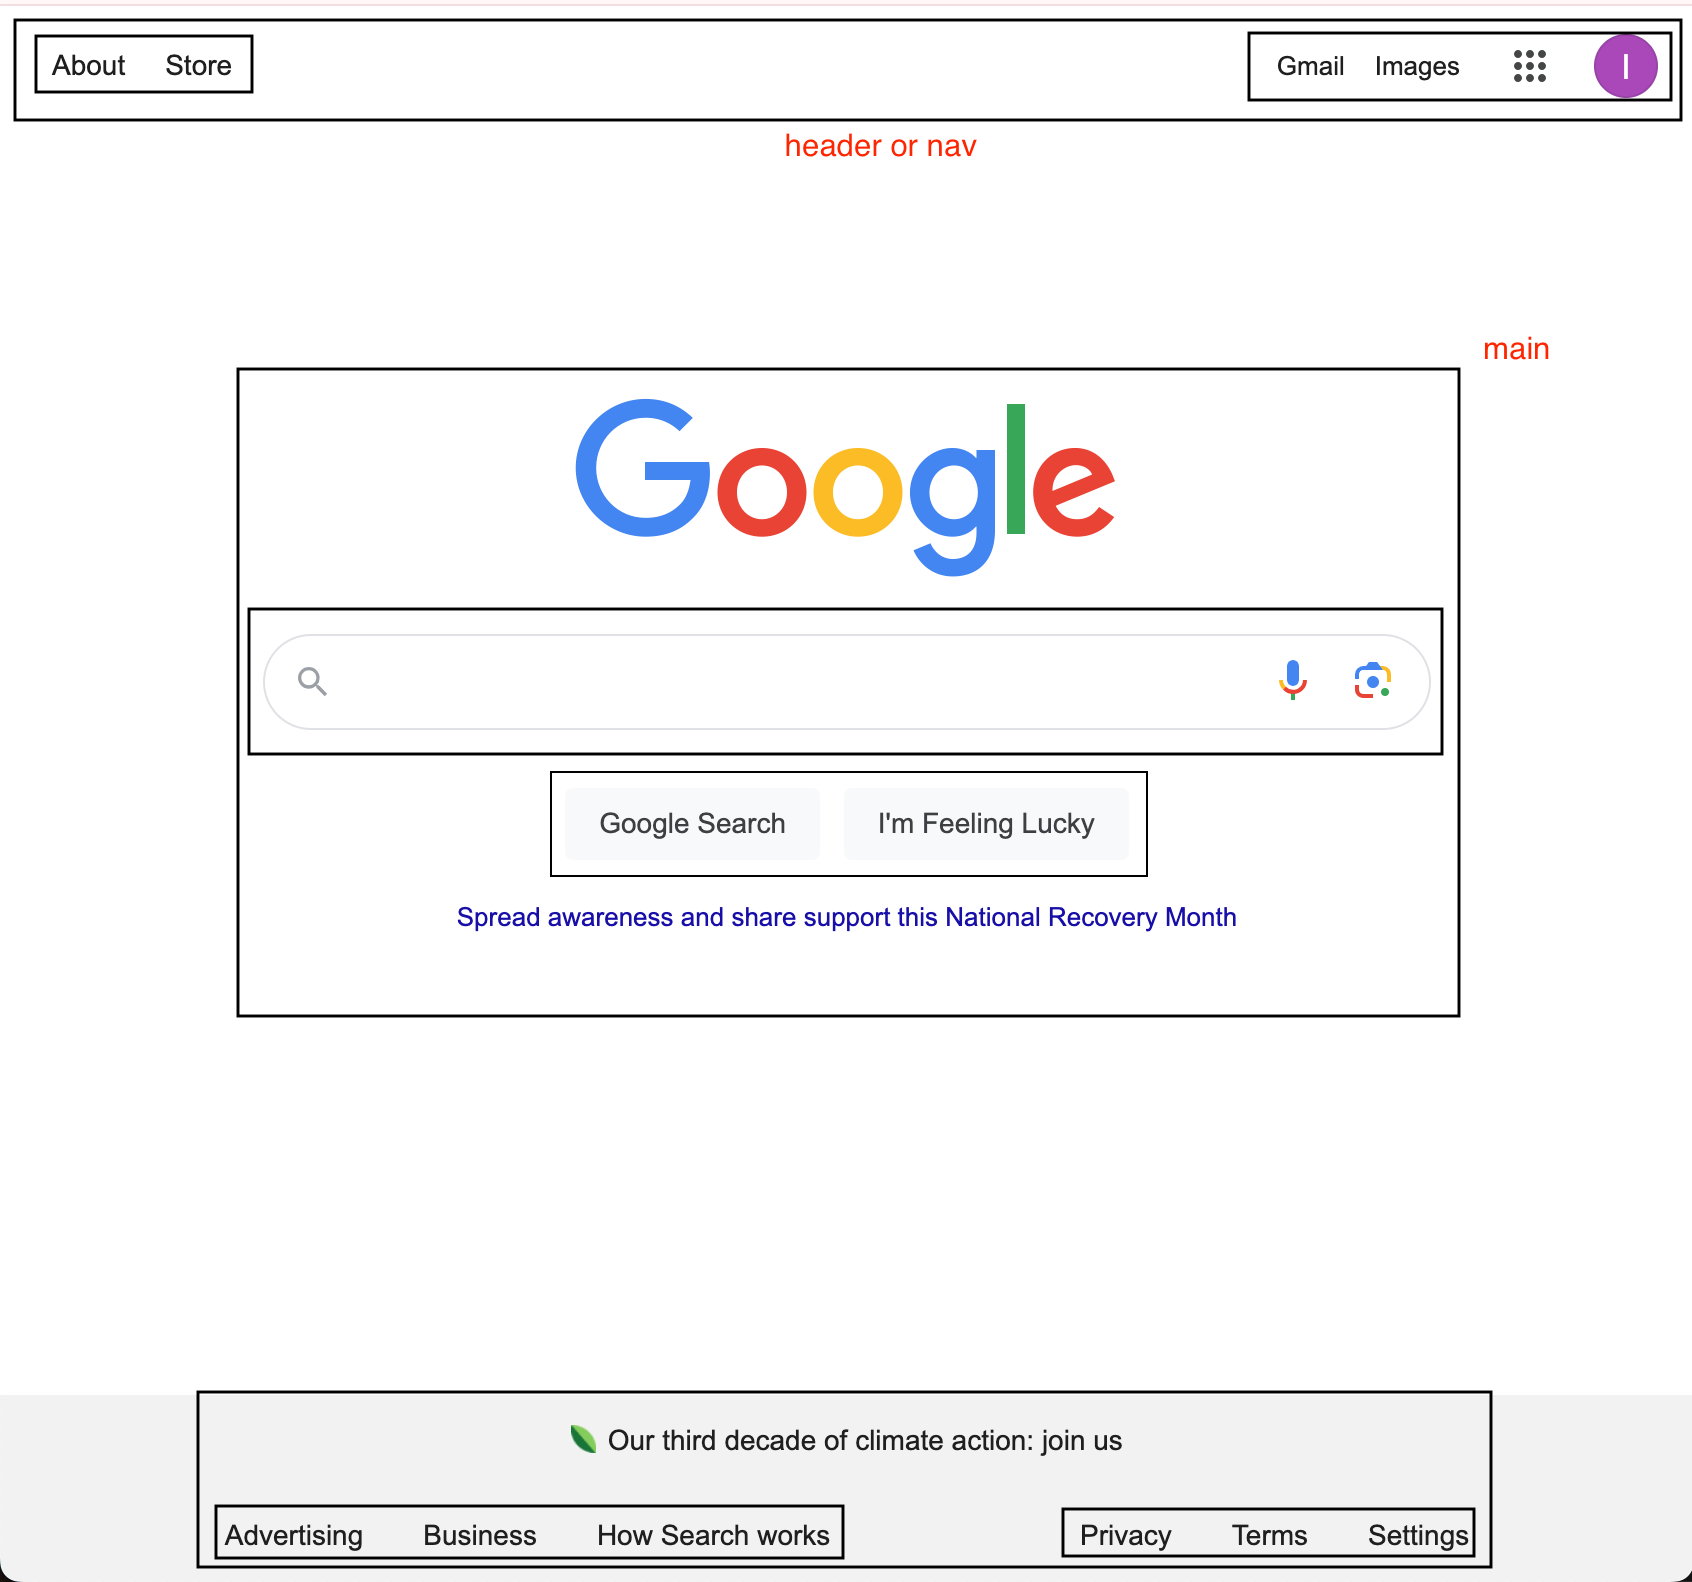
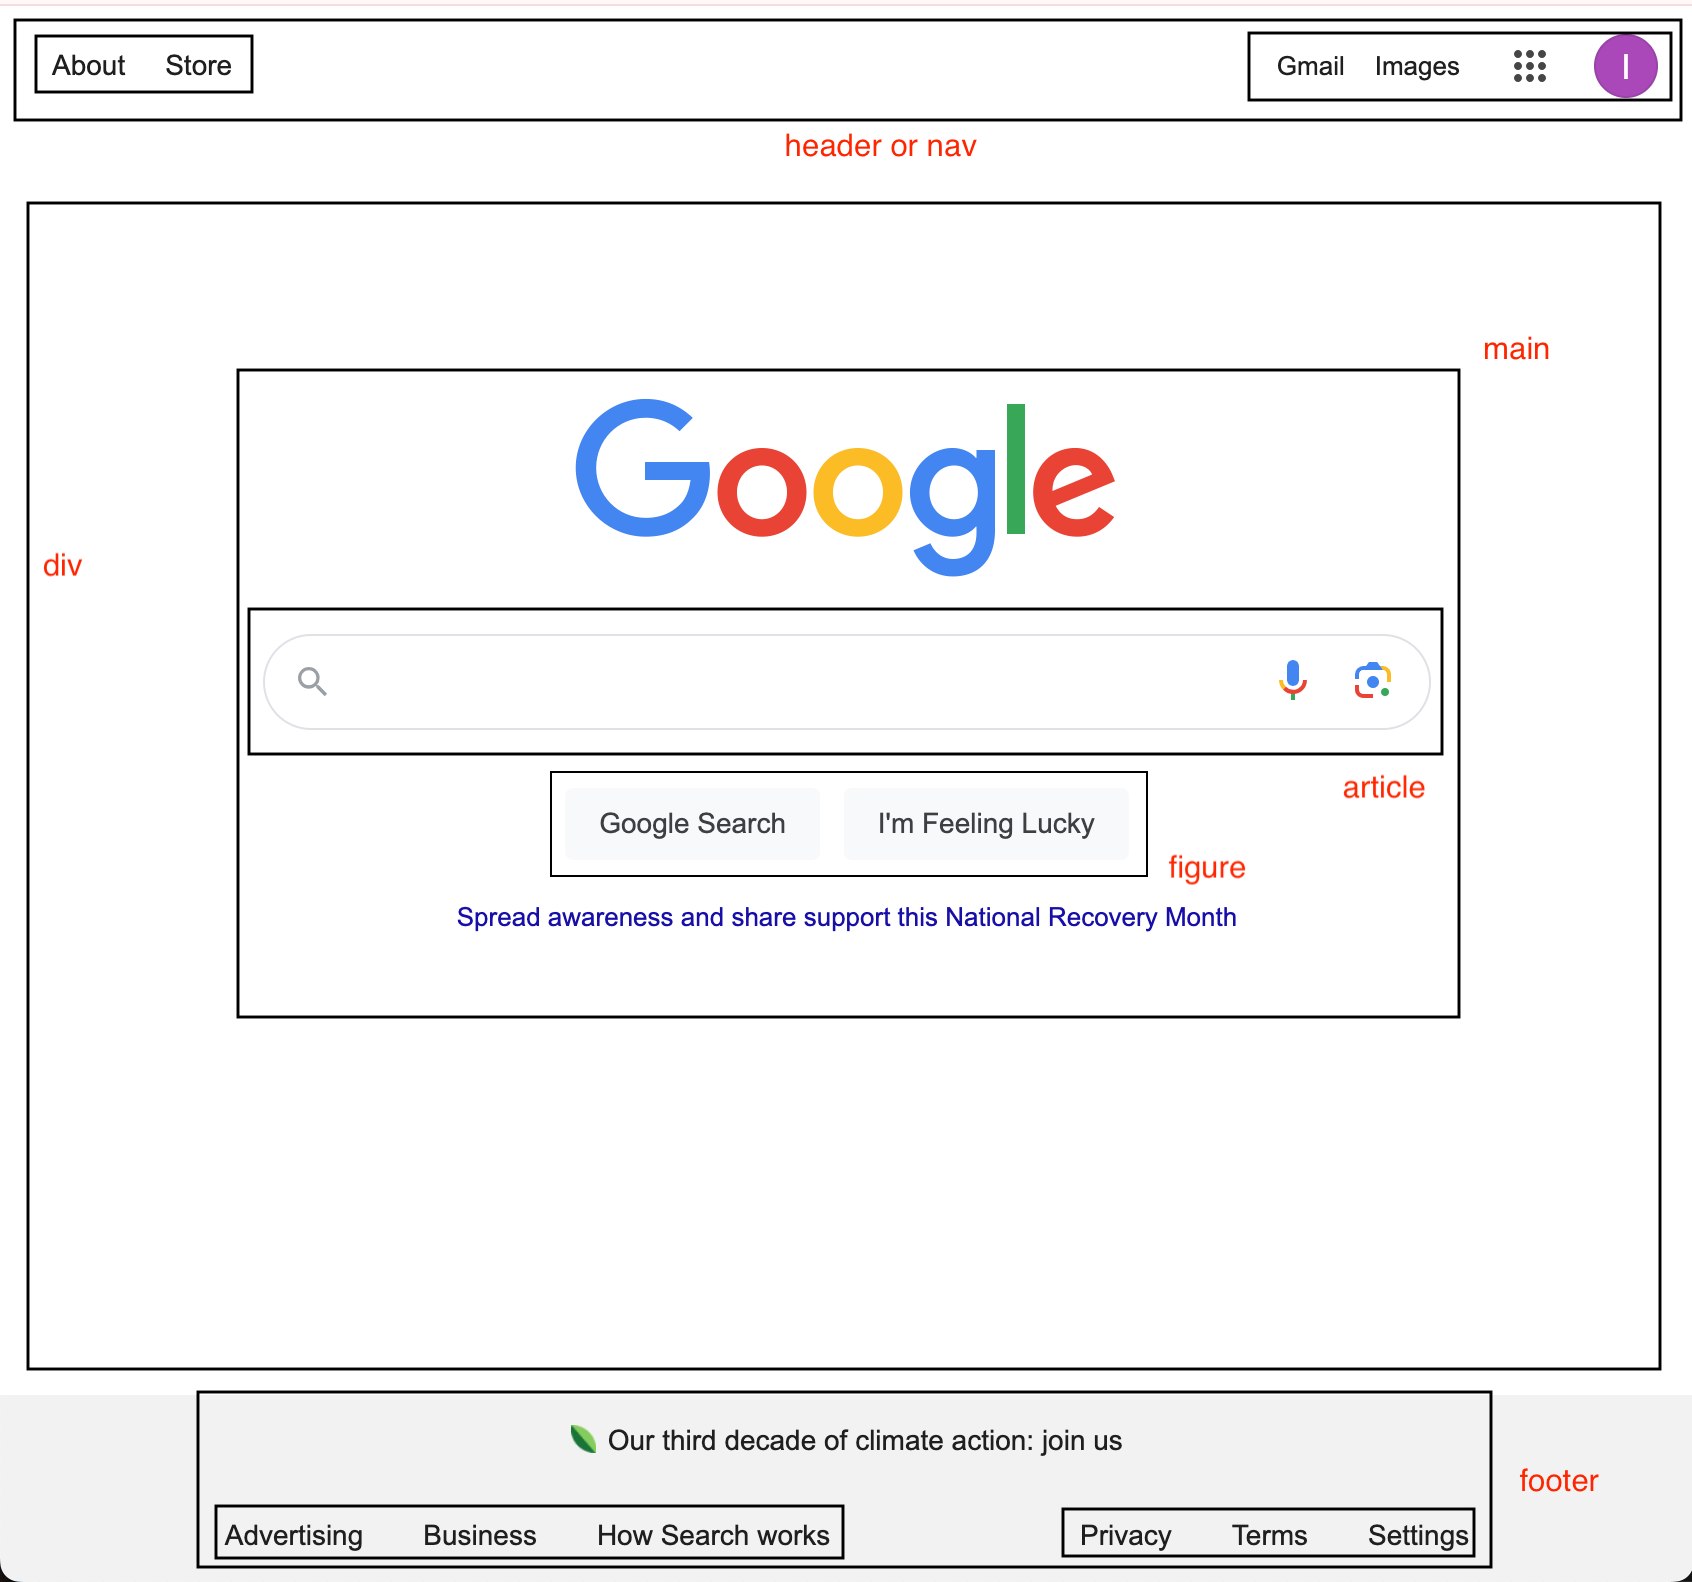
google pages

diff --git a/week1/index.html b/week1/index.html
@@ -6,18 +6,42 @@
     <title>Google</title>
 </head>
 <body>
-<header>
-    <ul
-    <li><About href="about.html"About</a></About>/li>
-    <li><aStore href="/store.html"></aStore</a></li>
-        <ul
-        <li><a href="#"About</a>/li>
-        <li><aStore href="/store.html"></aStore</a></li>
-
+    </header>
+    <ul></ul>
+    <li> <a href="about.html">About</a> </li>
+    <li> <a href="store.html">Store</a> </li>
+</ul>
+<ul>
+    <li> <a href="#">Gmail</href</a> </li>
+    <li> <a href="#">Images</href</a> </li>
+    <li> <a href="#">Apps</href</a> </li>
+    <li> <a href="#">Profile</href</a> </li>
+</ul>
 </header>
-<main>
-    <h1>Google</h1>
-    <input type="text"/>
-</main>
+    <div>
+        <main>
+            <h1>Google</h1>
+            <input type="text"/>
+            <button type="button">Google Search</button>
+            <button type="button">I'm feeling Lucky</button>
+        </main>
+    </div>
+
+    <footer>
+        <ul>
+            <li> <a href="#">Advertising</href</a> </li>
+            <li> <a href="#">Business</href</a> </li>
+            <li> <a href="#">How Search Works</href</a> </li>
+        </ul>
+        </footer>
+
+        <footer>
+            <ul>
+                <li> <a href="#">Privacy</href</a> </li>
+                <li> <a href="#">Terms</href</a> </li>
+                <li> <a href="#">Settings</href</a> </li>
+            </ul>
+            </footer>
 </body>
+
 </html>

diff --git a/week2/index.html b/week2/index.html
@@ -1,0 +1,43 @@
+<!DOCTYPE html>
+<html lang="en">
+<head>
+    <meta charset="UTF-8">
+    <meta http-equiv="X-UA-Compatible" content="IE=edge">
+    <meta name="viewport" content="width=device-width, initial-scale=1.0">
+    <title>Tutorial</title>
+</head>
+<body>
+    
+    <header>
+        <img src="" alt="">
+
+        <nav>
+            <ul>
+                <li>
+                    <a href=""></a>
+                </li>
+            </ul>
+        </nav>
+    </header>
+
+    <main>
+        <section>
+            <h2>Benefits</h2>
+            <p>Lorem ipsum dolor sit amet consectetur adipisicing elit. Illum doloribus tempora at vel sequi soluta eos facilis. Dolores, architecto eaque ratione cupiditate perspiciatis, ex error commodi, adipisci amet fugiat numquam?</p>
+        </section>
+
+        <section>
+            <h2>How it works</h2>
+            <p> Lorem ipsum dolor, sit amet consectetur adipisicing elit. Perspiciatis, itaque. Dolorum, dicta assumenda veniam atque quaerat neque praesentium explicabo beatae est, quas illo porro facere debitis sint magni odio consequatur?</p>
+        </section>
+    </main>
+
+    <footer>
+        <ul>
+            <li>
+                <a href=""></a>
+            </li>
+        </ul>
+    </footer>
+</body>
+</html>
